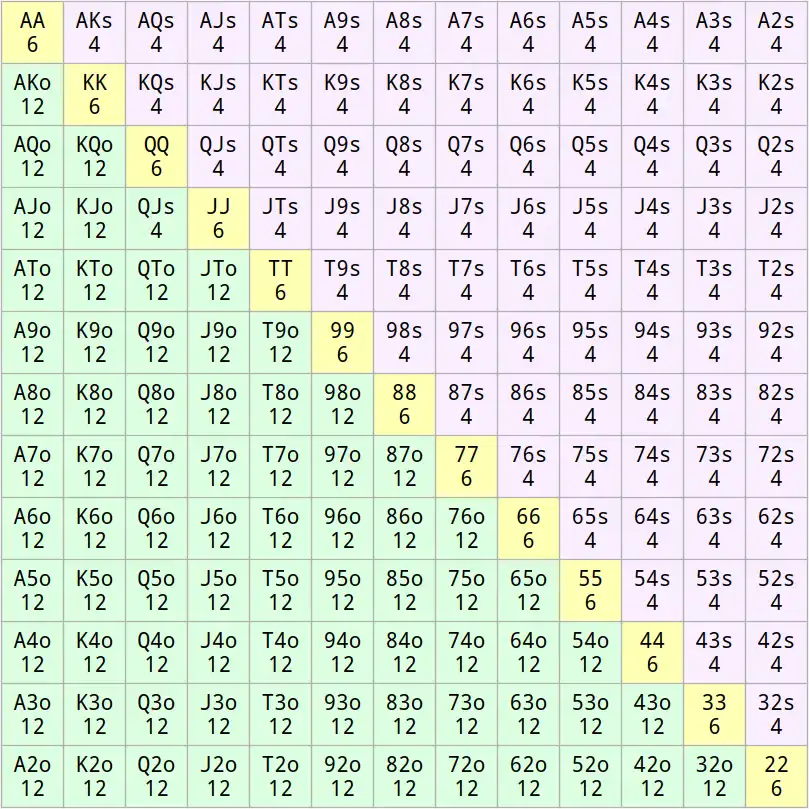
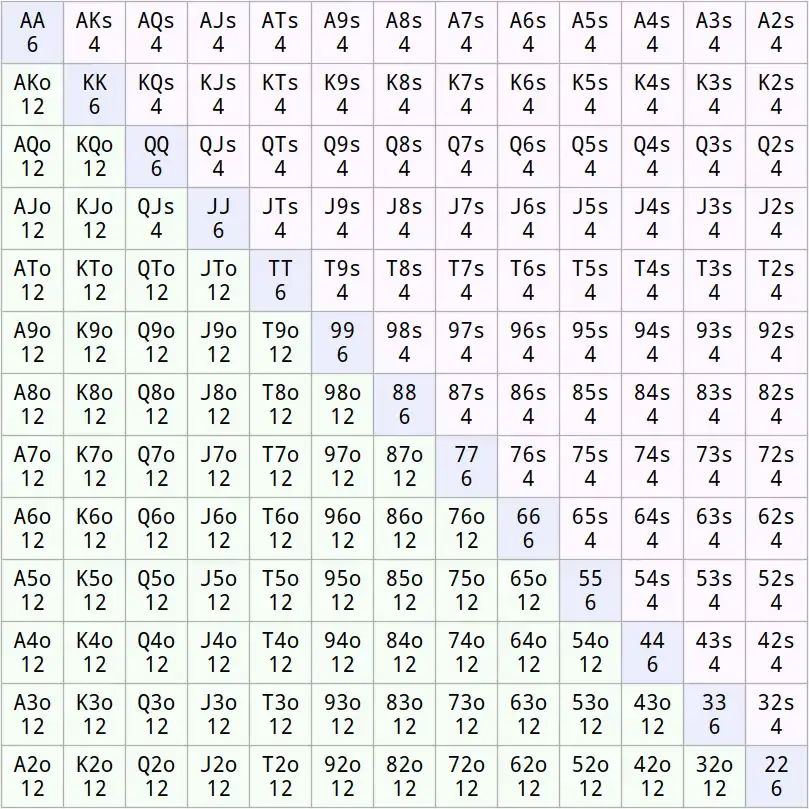
11-02-2024 21:15

Changed region(s): [[0.0, 0.0, 1.0, 1.0]]

diff --git a/zones/gm-synopsis/pages/26.html b/zones/gm-synopsis/pages/26.html
@@ -68,8 +68,6 @@ Total Combos  = 1326<br>
 
 <a target='_blank' href='../images/preflop-combos.webp'><img class='clImageThumb' src='../images/preflop-combos.webp'></a><br>
 
-<a target='_blank' href='../images/hand-grid-template.webp'><img class='clImageThumb' src='../images/hand-grid-template.webp'></a><br>
-
 Equity (as %) of starting hands in one-on-one matchups against a random hand<br>
 
 <a target='_blank' href='../images/probability-win-random.webp'><img class='clImageThumb' src='../images/probability-win-random.webp'></a><br>